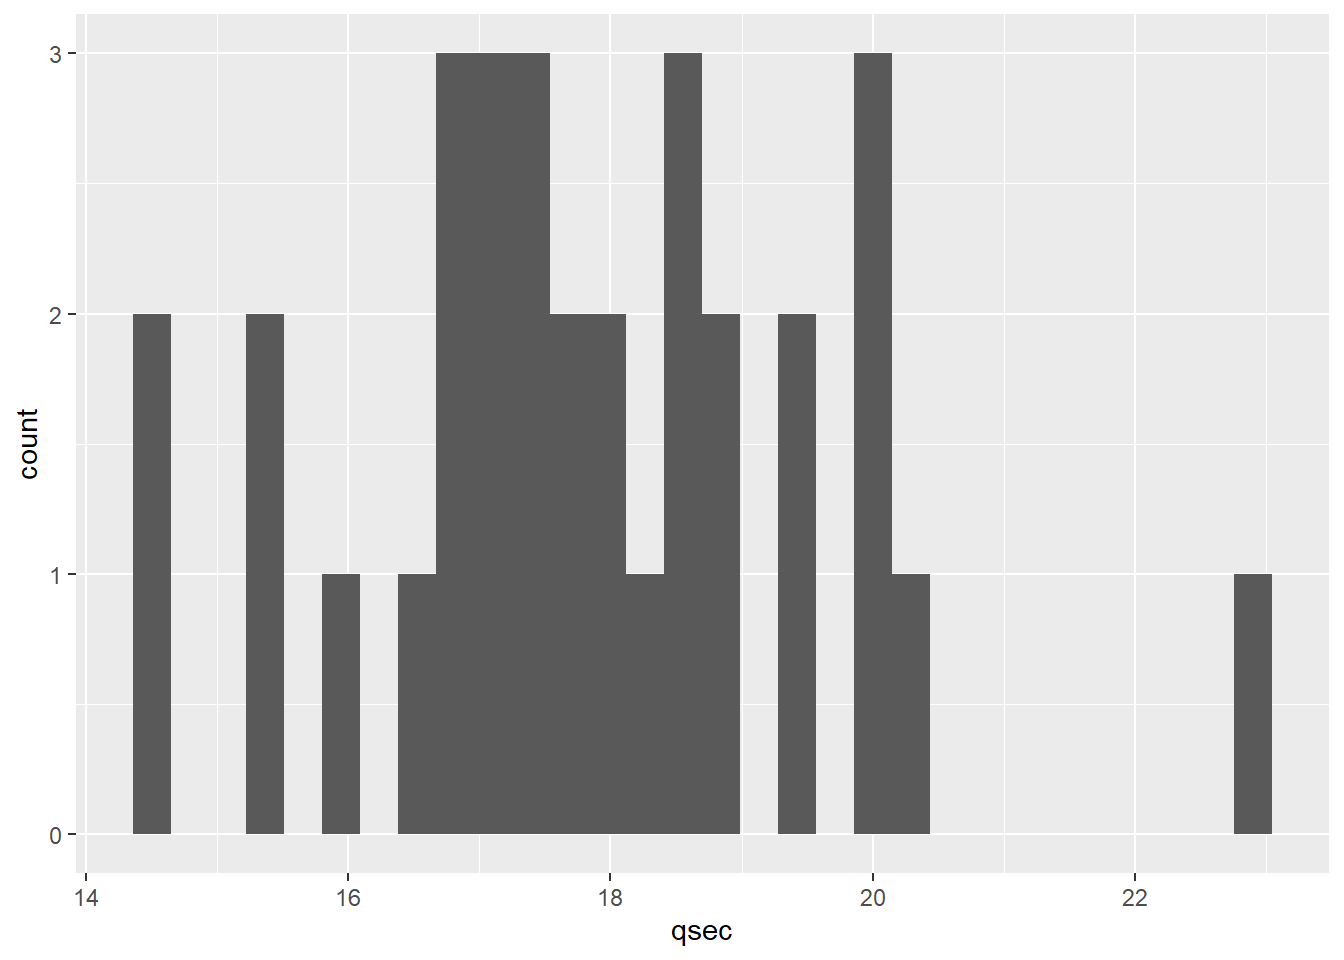
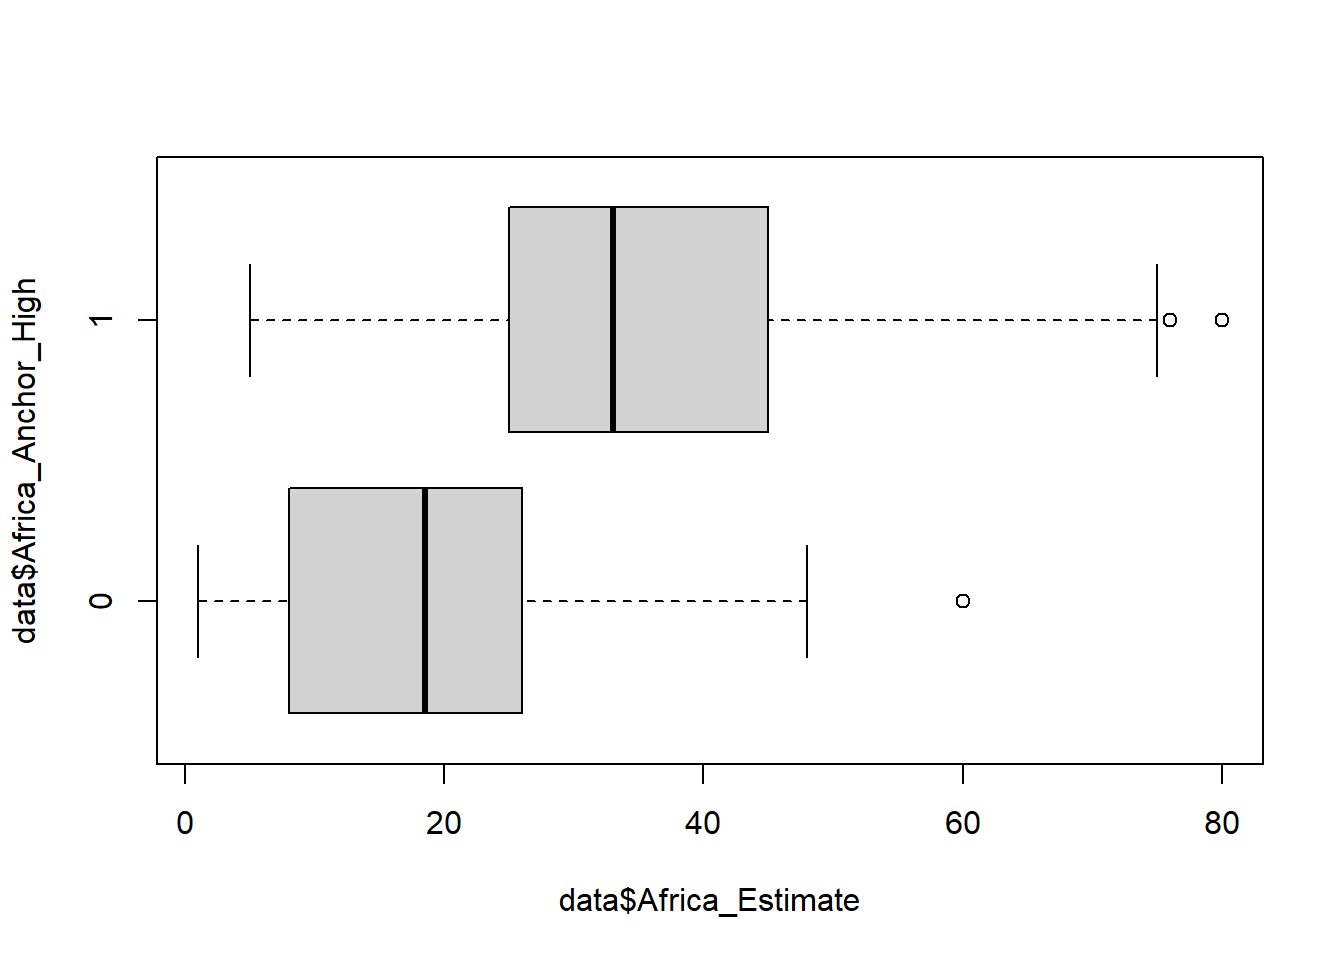
boxplot

diff --git a/Statistics Exercises BK.html b/Statistics Exercises BK.html
@@ -277,6 +277,16 @@ attr(,"conf.level")
 <pre><code>✔ Range ''white''.</code></pre>
 </div>
 </div>
+<div class="cell">
+<div class="code-copy-outer-scaffold"><div class="sourceCode cell-code" id="cb23"><pre class="sourceCode r code-with-copy"><code class="sourceCode r"><span id="cb23-1"><a href="#cb23-1" aria-hidden="true" tabindex="-1"></a><span class="fu">boxplot</span>(data<span class="sc">$</span>Africa_Estimate<span class="sc">~</span>data<span class="sc">$</span>Africa_Anchor_High, <span class="at">horizontal =</span> <span class="cn">TRUE</span>)</span></code></pre></div><button title="Copy to Clipboard" class="code-copy-button"><i class="bi"></i></button></div>
+<div class="cell-output-display">
+<div>
+<figure class="figure">
+<p><img src="Statistics-Exercises-BK_files/figure-html/unnamed-chunk-8-1.png" class="img-fluid figure-img" width="672"></p>
+</figure>
+</div>
+</div>
+</div>
 </section>
 <section id="hypothesis-testing" class="level3">
 <h3 class="anchored" data-anchor-id="hypothesis-testing">Hypothesis testing</h3>
@@ -292,7 +302,7 @@ attr(,"conf.level")
 <div class="cell-output-display">
 <div class="quarto-figure quarto-figure-center">
 <figure class="figure">
-<p><img src="Statistics-Exercises-BK_files/figure-html/unnamed-chunk-8-1.png" class="img-fluid figure-img" width="672"></p>
+<p><img src="Statistics-Exercises-BK_files/figure-html/unnamed-chunk-9-1.png" class="img-fluid figure-img" width="672"></p>
 <figcaption>Histogram of qsec</figcaption>
 </figure>
 </div>
